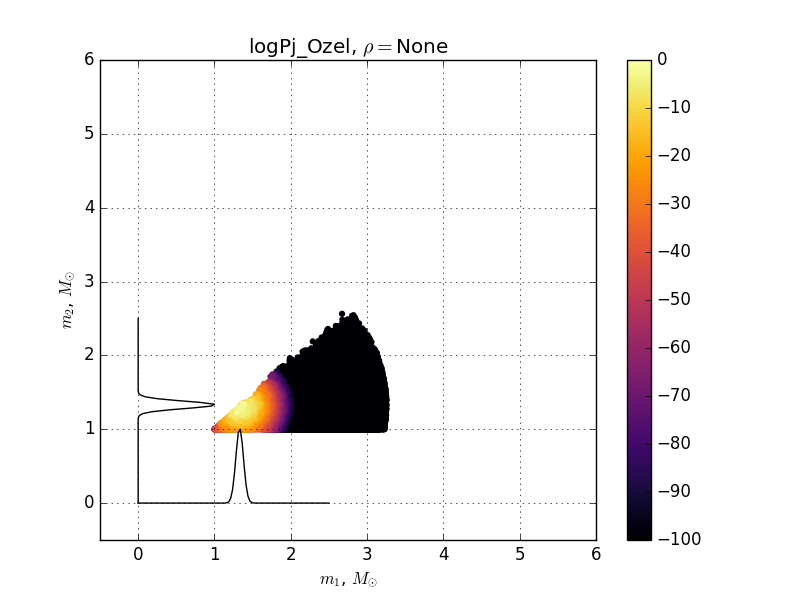
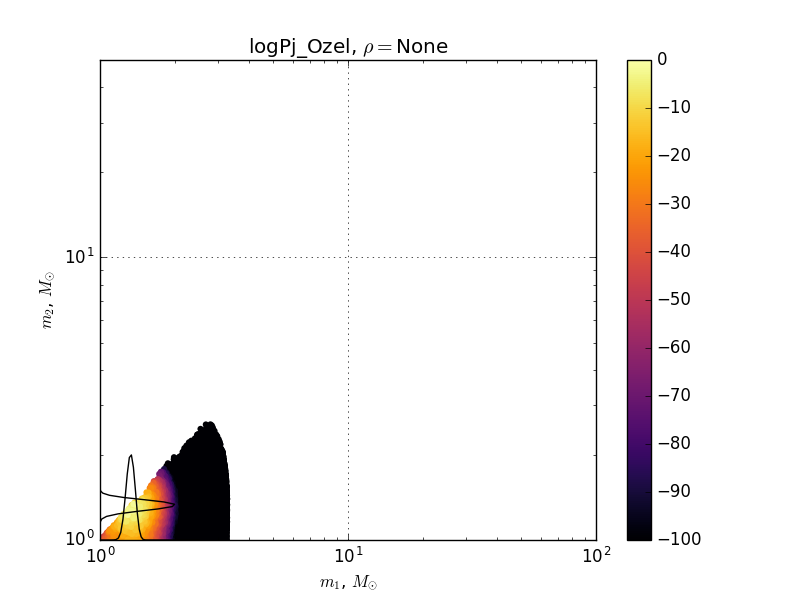
updated logPj plot with BBH, fixed labels of figures

diff --git a/article_rankstatsrc.tex b/article_rankstatsrc.tex
@@ -63,7 +63,11 @@
 
 \author{Chris Pankow}
 \email{chris.pankow@ligo.org}
-\affiliation{Department of Physics, Northwestern University, Milwaukee, WI, 53201, USA}
+\affiliation{Department of Physics, Northwestern University, Evanston, WI, 60208, USA}
+
+\author{Jolien Creighton}
+\email{jolien.creighton@ligo.org}
+\affiliation{Department of Physics, University of Wisconsin-Milwaukee, Milwaukee, WI, 53201, USA}
 
 \author{Other authors}
 \email{authors@email.com}
@@ -105,24 +109,24 @@ Abstract goes here.
 
 \section{Introduction}
 
-The direct detections of gravitational waves by the Advanced Laser Interferometer Gravitational-wave Observatory (Advanced LIGO) that were made in late 2015 \cite{Abbott:2016blz, Abbott:2016nmj, TheLIGOScientific:2016pea} have propelled us into the age of gravitational-wave astronomy. Additional gravitational-wave observatories are also expected to come online in in the next several years. With further observation runs scheduled and additional improvements planned for the current LIGO detectors \cite{TheLIGOScientific:2016agk}, the rate at which gravitational waves from compact binary coalescences are observed is expected to increase \cite{Abbott:2016nhf}. With additional detections occurring more and more frequently, we stand to gain a deeper understanding of these tumultuous and dramatic astrophysical events. 
+The direct detections of gravitational waves by the Advanced Laser Interferometer Gravitational-wave Observatory (Advanced LIGO) that were made in late 2015 \cite{Abbott:2016blz, Abbott:2016nmj, TheLIGOScientific:2016pea} mark a monumental breakthrough in physics and astronomy. With additional Advanced LIGO observing runs scheduled and further gravitational-wave observatories expected to come online in in the next several years, the age of gravitational-wave astronomy has truly begun. Advanced LIGO's design sensitivity aims to achieve a factor of three improvement to the signal-to-noise ratio (SNR) for binary black hole systems similar to the detected events \cite{TheLIGOScientific:2016agk}. These improvements are expected to increase the inferred rate of observed compact binary coalescences \cite{Abbott:2016nhf}. With additional detections occurring more and more frequently, we stand to gain a deeper understanding of these tumultuous and dramatic astrophysical events. 
 
-Searches for gravitational waves from compact binary coalescences use a technique known as matched-filtering, which involves time-shifting the detector data with template waveforms to calculate their correlations. The template waveforms comprise a template bank, and model the expected signal of gravitational waves from binary neutron stars (BNS), binary black holes (BBH), and neutron star-black hole (NSBH) binaries. Candidate events are identified through matched-filtering, and they are assigned a ranking statistic that assesses their likelihood of being a gravitational-wave signal. 
+Searches for gravitational waves from compact binary coalescences use a technique known as matched-filtering. To search for signals, relatively short gravitational template waveforms are time-shifted across the detector data in order to calculate their correlations. The template waveforms comprise a template bank, and the waveforms model the expected signal of gravitational waves from binary neutron stars (BNS), binary black holes (BBH), and neutron star-black hole (NSBH) binaries. If there is sufficiently high correlation between the data and a template waveform and there is coincidence between the detectors, then an event candidate is identified. Candidate events are assigned a ranking statistic that assesses their likelihood of being a gravitational-wave signal. 
 
-In \cite{2015arXiv150404632C}, Cannon {\it et al.} derived a likelihood-ratio ranking statistic that expands on previous work by Biswas {\it et al.} \cite{Biswas:2012tv} and Aasi {\it et al.} \cite{Aasi:2013vna}, incorporating a model for the correlations in the signal-to-noise-ratios with which signals will be seen in a network of ground-based antennae. The ranking statistic retains an algebraic procedure for mapping ranking statistic values to false-alarm probability. The ranking statistic derived in \cite{2015arXiv150404632C} has been implemented into one of Advanced LIGO's compact binary coalescence gravitational-wave search analyses, GstLaL \cite{Cannon:2011vi,Privitera:2013xza,Messick:2016}.
+In \cite{2015arXiv150404632C}, Cannon {\it et al.} derived a likelihood-ratio ranking statistic that expands on previous work by Biswas {\it et al.} \cite{Biswas:2012tv} and Aasi {\it et al.} \cite{Aasi:2013vna}. Cannon {\it et al.} incorporated a model for the correlations in SNR with which signals will be seen in a network of ground-based antennae. The ranking statistic retains an algebraic procedure for mapping ranking statistic values to false-alarm probability. The ranking statistic derived in \cite{2015arXiv150404632C} has been implemented into one of Advanced LIGO's compact binary coalescence gravitational-wave search analyses, GstLaL \cite{Cannon:2011vi,Privitera:2013xza,Messick:2016}.
 
-Currently, the likelihood ratio-based ranking statistic implemented in GstLaL carries the assumption that gravitational-wave signals are equally likely to be recovered by any waveform template in the template bank. This assumption has been implicitly chosen in past gravitational-wave searches from compact binary coalescences in order to maximize the signal-to-noise ratio (SNR) of the signal, but it carries no astrophysical information from source population models. As a result, compact binary coalescence searches suffer in sensitivity because it assumes an incorrect distribution of compact binaries in the Universe. 
+Currently, the likelihood ratio-based ranking statistic implemented in GstLaL assumes that gravitational-wave signals are equally likely to be recovered by any waveform template in the template bank; that is, the signal population of compact binaries is assumed to follow the placement of the waveforms in the template bank. This has been implicitly chosen in past gravitational-wave searches from compact binary coalescences in order to maximize the SNR of the signal, but it carries no astrophysical information of source population models. As a result, compact binary coalescence searches suffer in sensitivity because it assumes an incorrect distribution of compact binaries in the Universe, which yields an algorithm with less sensitivity of detecting real signals. 
 
-This article presents a derivation that folds in astrophysical source population model information into the ranking statistic. It will also tune compact binary coalescence searches to be more sensitive to a given population, which will improve the accuracy of the rate estimates of observed mergers. 
+This article presents a derivation that folds in astrophysical source population model information into the ranking statistic. Implementing the source-dependent ranking statistic allows one to tune compact binary coalescence searches to be more sensitive to a given population, which will improve the accuracy of the rate estimates of observed mergers. 
 
-In Section \ref{sec:rankingstat}, we begin by describing the ranking statistic that is currently used in Advanced LIGO's low-latency searches for compact binary coalescences. The derivation of a ranking statistic that envelops astrophysical source model information is outlined in Section \ref{sec:derivation}, where the various terms are explored in further detail in Sections \ref{sec:P_j}, \ref{sec:P_k}, and \ref{sec:P_jk}. Finally, in Section \ref{sec:}, we present a discussion of the new ranking statistic, and conclude in Section \ref{sec:conclusion}.
+In Section \ref{sec:rankingstat}, we begin by describing the ranking statistic that is currently used in Advanced LIGO's low-latency searches for compact binary coalescences. The derivation of a ranking statistic that envelops astrophysical source model information is outlined in Section \ref{sec:derivation}, where the various terms are explored in further detail in Sections \ref{sec:P_j} and \ref{sec:P_k}. In Section \ref{sec:P_jk}, we present a discussion of the source-dependent ranking statistic, and conclude in Section \ref{sec:conclusion}.
 
 %%%%%%%%%%%%%%%%%%%%%%%%%%
 %%%%%%%%%%%%%%%%%%%%%%%%%%
 
 \section{Likelihood-ratio ranking statistic} \label{sec:rankingstat}
 
-The ranking statistic employed in one of Advanced LIGO's compact binary coalescence searches, GstLaL, is the likelihood ratio, which is an effective way to rank signals because of the known mapping between the ranking statistic value and false-alarm probability. The likelihood-ratio ranking statistic is given as the following (adapted from Eq. 1 of \cite{2015arXiv150404632C}):
+In one of Advanced LIGO's compact binary coalescence searches, GstLaL, the ranking statistic employed is the likelihood ratio, which is an effective way to rank signals because of the known mapping between the ranking statistic value and false-alarm probability. The likelihood-ratio ranking statistic is given as the following (adapted from Eq. 1 of \cite{2015arXiv150404632C}):
 	\begin{widetext}
 	\begin{multline}
 	\label{eqn:LR}
@@ -152,8 +156,7 @@ We consider a gravitational-wave candidate $\vec{s}$; it belongs to an astrophys
    \end{equation}
 where $m_i$ and $\chi_i$ are the masses and spins, respectively, of source $i=1,2$ and $\rho$ is the nominal SNR. 
 
-We assume that the waveform template bank is densely populated such that the candidate can be described by a template $\vec{t}_j$ in the bank multiplied by $\rho$. Therefore, the candidate is expressed as $\vec{s}(\vec\theta)=\rho\vec{t}_j(\vec\theta)$. The candidate also contains noise $\vec{n}$, which is assumed to be stationary Gaussian noise. To simplify the notation, the dependency on $\vec{\theta}$ is implied from this point on. 
-
+We assume that the waveform template bank is densely populated such that the candidate can be described by a template $\vec{t}_j$ in the bank multiplied by $\rho$. Therefore, the candidate is expressed as $\vec{s}(\vec\theta) \approx \vec{s}(\vec{\theta}_{j}) = \rho\vec{t}_j$. The candidate also contains noise $\vec{n}$, which is assumed to be stationary Gaussian noise. 
 %COORDINATE SYSTEM DRAWING
 \begin{figure}
 \input{unitsphere_figure.tex}
@@ -195,9 +198,9 @@ In the final equality, we assume that the distribution of the source parameters 
 \resizebox{\linewidth}{!}
 {\includegraphics{logPj_OzelrhoNone.png}}
 \resizebox{\linewidth}{!}
-{\includegraphics{logPj_KiziltanrhoNone.png}}
+{\includegraphics{logPj_BBHrhoNone.png}}
+\caption{The logarithmic probability of the signal population, i.e. the probability $P_j$ that a signal $t_j$ exists. Only $m_1$ and $m_2$ of the template bank are plotted. We use two different signal populations: BNS (top) and BBH (bottom). The black solid lines show the mass distribution of the different population models. Note that log$P_j=-\infty$ is not plotted.}
 \label{fig:p_j}
-\caption{log probability of signal population, i.e. the probability $P_j$ that a signal $t_j$ exists. Only $m_1$ and $m_2$ of the template bank are plotted. We use two different signal populations: BNS (left) and BBH (right). The black solid lines show the mass distribution of the different population models. Note that log$P_j=-\infty$ is not plotted.}
 \end{figure}
 
 %%%%%%%%%%%%%%%%%%%%%%%%%%
@@ -284,7 +287,7 @@ The denominator is calculated in the same way. When we compute the full probabil
 
 \FIXME{Replace Kiziltan plots with BBH}
 
-Now that we have derived all components, we can calculate the probability that any signal in our source population is recoverable by a particular template; that is, $P(\vec{t}_k | \text{signal})$ from Eq.~\ref{eqn:prob_signal}.
+Now that we have derived all components, we can calculate the probability that any signal in our source population is recovered by a particular template; that is, $P(\vec{t}_k | \text{signal})$ from Eq.~\ref{eqn:prob_signal}.
 
 In this study, we use the same template bank used by data analysis pipelines during Advanced LIGO's first observation run \cite{TheLIGOScientific:2016pea}. The template bank covers a four-dimensional parameter space ($m_1$,$m_2$,$\chi_1$,$\chi_2$) and is comprised of $\sim\!250,000$ templates. To see the parameter space covered by this template bank, see Fig. 2 of \cite{TheLIGOScientific:2016pea}.
 
@@ -294,7 +297,7 @@ The probabilities currently computed are a function of $\rho$: $P(\text{a signal
 	\end{equation}
 where $n$ is a natural number. 
 
-The probabilities are calculated at different $\rho$ to observe how the recoverability of the templates change with stronger or weaker signals. We plot $P(\text{all $\vec{s}$ in $\mathcal{S}$ is recoverable by $\vec{t}_k$})$ vs. $\rho$ in Figure~\ref{fig:Pvsrho} for select templates. Some of the curves have a local maximum at $10\lesssim \rho\lesssim 5$ before asymptotically approaching a constant. This indicates that low-SNR populations will appear to have a different mass distribution than high-SNR populations.
+The probabilities are calculated at different $\rho$ to observe how the recoverability of the templates change with stronger or weaker signals. We plot $P(\text{all $\vec{s}$ in $\mathcal{S}$ is recovered by $\vec{t}_k$})$ vs. $\rho$ in Figure~\ref{fig:Pvsrho} for select templates. Some of the curves have a local maximum at $10\lesssim \rho\lesssim 5$ before asymptotically approaching a constant. This indicates that low-SNR populations will appear to have a different mass distribution than high-SNR populations.
 
 With a distribution of $\rho$, we can calculate:
 	\begin{equation}
@@ -319,8 +322,8 @@ We assume that $P(\rho)\propto\rho^{-4}$. We cannot normalize this because there
 \begin{figure}
 \includegraphics[width=0.5\textwidth]{lagrangian_fit_Ozel.pdf}
 \includegraphics[width=0.5\textwidth]{lagrangian_fit_Kiziltan.pdf}
-\label{fig:Pvsrho}
 \caption{Lagrangian fits of $P_{jk}$ vs $\rho$ for a few templates (top: BNS, bottom: BBH). Dots are the data points, and solid lines are the functions found fitting Lagrangian polynomials to the data \FIXME{(change to cubic splines)}. The $\rho$ values are found using the Chebychev nodes, with the addition of $\rho=0$.}
+\label{fig:Pvsrho}
 \end{figure}
 
 To better understand which templates give asymptotically approach a constant value with increasing $\rho$, in Figure~\ref{fig:P_tkj}, we show the templates mapped onto mass axes, with the colours denoting the magnitude of the calculated probability. As $\rho$ increases, we see that the probabilities of most templates exponentially decrease, except for a collection of templates that are clustered around the source population.
@@ -344,7 +347,7 @@ To better understand which templates give asymptotically approach a constant val
 	\resizebox{\linewidth}{!}{\includegraphics{first2years_20160612_P_tkj_100templates_18rho_N3.jpg}}
 	\resizebox{\linewidth}{!}{\includegraphics{first2years_20160612_P_tkj_100templates_25rho_N3.jpg}}
 	\resizebox{\linewidth}{!}{\includegraphics{first2years_20160612_P_tkj_100templates_37rho_N3.jpg}}
-	\caption{100 templates were chosen at random, for which the probabilities $P(\text{all $\vec{s}$ in $\mathcal{S}$ is recoverable by $\vec{t}_k$})$ of each were calculated; the magnitude of the probability is given by the colour bar. The different plots show the probability calculated for different $\rho$. As $\rho$ is increased, the probability decreases for most templates, indicating that it is unlikely those templates will recover strong signals from our specified population. Some templates have probabilities that remain relatively constant with increasing $\rho$, and these tend to be clustered around the source population. While the colour scale only goes to $10^{-25}$, the probabilities at high $\rho$  go as low as $\sim\!10^{-52}$.}
+	\caption{100 templates were chosen at random, for which the probabilities $P(\text{all $\vec{s}$ in $\mathcal{S}$ is recovered by $\vec{t}_k$})$ of each were calculated; the magnitude of the probability is given by the colour bar. The different plots show the probability calculated for different $\rho$. As $\rho$ is increased, the probability decreases for most templates, indicating that it is unlikely those templates will recover strong signals from our specified population. Some templates have probabilities that remain relatively constant with increasing $\rho$, and these tend to be clustered around the source population. While the colour scale only goes to $10^{-25}$, the probabilities at high $\rho$  go as low as $\sim\!10^{-52}$.}
 	\label{fig:P_tkj}
 	\end{figure}
 \end{comment}
@@ -354,7 +357,7 @@ To better understand which templates give asymptotically approach a constant val
 
 \section{Conclusion} \label{sec:conclusion}
 
-In order to improve the ranking statistic such that it is more sensitive to source populations, we have presented a derivation that enfolds astrophysical source population model information. The population models can be specified and are shown to work for both BNS and BBH populations. This allows gravitational-wave searches to be tuned towards particular sources. We have shown that the probabilities vary between different source populations. This work also demonstrates that low-SNR and high-SNR populations reveal different mass distributions, which makes it important that the ranking statistic incorporates this information. Further work to be done includes using this source-dependent ranking statistic to estimate the rate of compact binary mergers.
+In order to improve the ranking statistic such that it is more sensitive to source populations, we have presented a derivation that enfolds astrophysical source population model information. Furthermore, the population models can be specified and are shown to work for both BNS and BBH populations, offering flexibility of changing the source population model in order to focus gravitational-wave searches towards particular populations. We have shown that the probabilities vary between different source populations. This work also demonstrates that low-SNR and high-SNR populations reveal different mass distributions, which makes it important that the ranking statistic incorporates this information. Further work to be done includes using this source-dependent ranking statistic to estimate the rate of compact binary mergers.
 
 %%%%%%%%%%%%%%%%%%%%%%
 \acknowledgments
